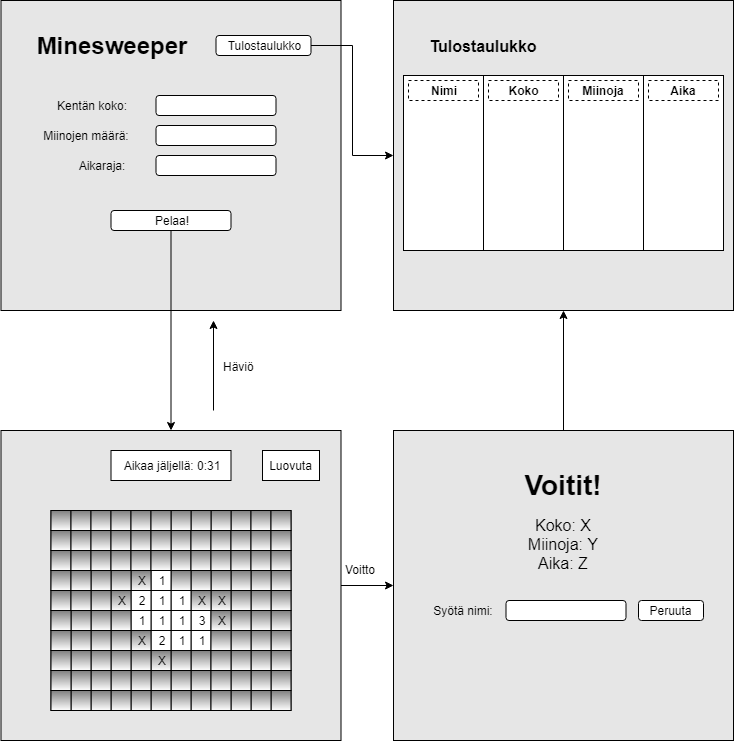
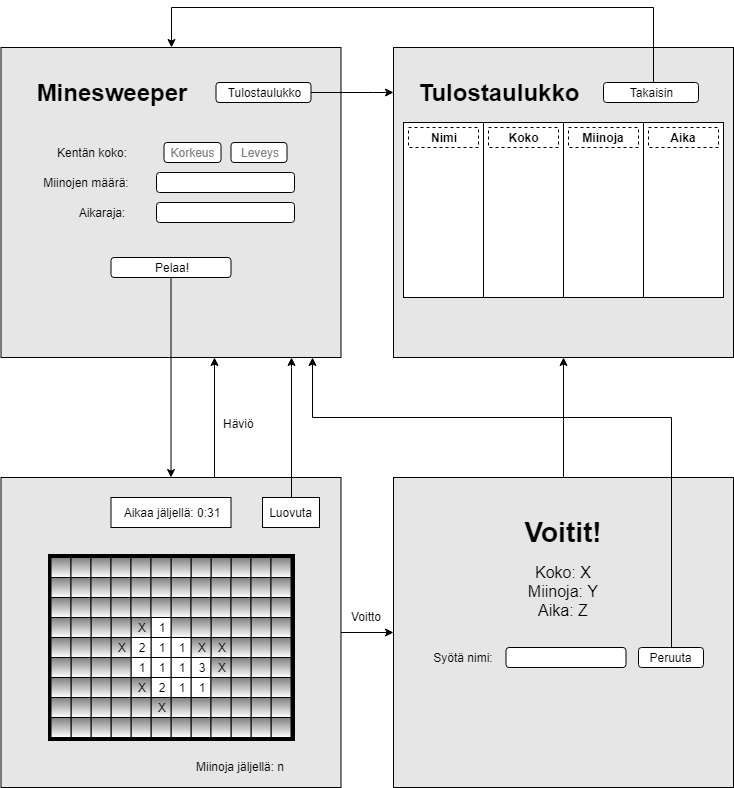
dokumentaatiomuutoksia

diff --git a/Minesweeper/dokumentaatio/vaatimusmaarittely.md b/Minesweeper/dokumentaatio/vaatimusmaarittely.md
@@ -10,7 +10,11 @@ Alkuvaiheessa ei voi valita kentän kokoa, miinojen määrää, eikä aikarajaa 
 
 ## Käyttöliittymäluonnos
 
+Sovelluksen käyttöliittymässä on neljä näkymää:
+
 <img src="https://github.com/stentho/otm-harjoitustyo/blob/master/Minesweeper/dokumentaatio/MinesweeperOTM.png">
+
+Sovelluksen aloitusnäytössä määritellään kentän koko, miinojen määrä (ei voi olla suurempi kuin kentän koko) ja aikaraja. Tältä näytöltä voi siirtyä suoraan peliin tai tulostaulukkoon. Pelin päätyttyä (mikäli voittaa) on mahdollisuus tallettaa suoritus tulostaulukkoon syöttämällä nimellä.
 
 ## Perusversion tarjoama toiminnallisuus
 

diff --git a/README.md b/README.md
@@ -4,7 +4,7 @@ Tällä sovelluksella voi pelata Minesweeperia, kiva juttu!
 
 ## Dokumentaatio
 
-
+[Vaatimusmäärittely](https://github.com/stentho/otm-harjoitustyo/blob/master/Minesweeper/dokumentaatio/vaatimusmaarittely.md)
 
 [Työaikakirjanpito](https://github.com/stentho/otm-harjoitustyo/blob/master/Minesweeper/dokumentaatio/tuntikirjanpito.md)
 
